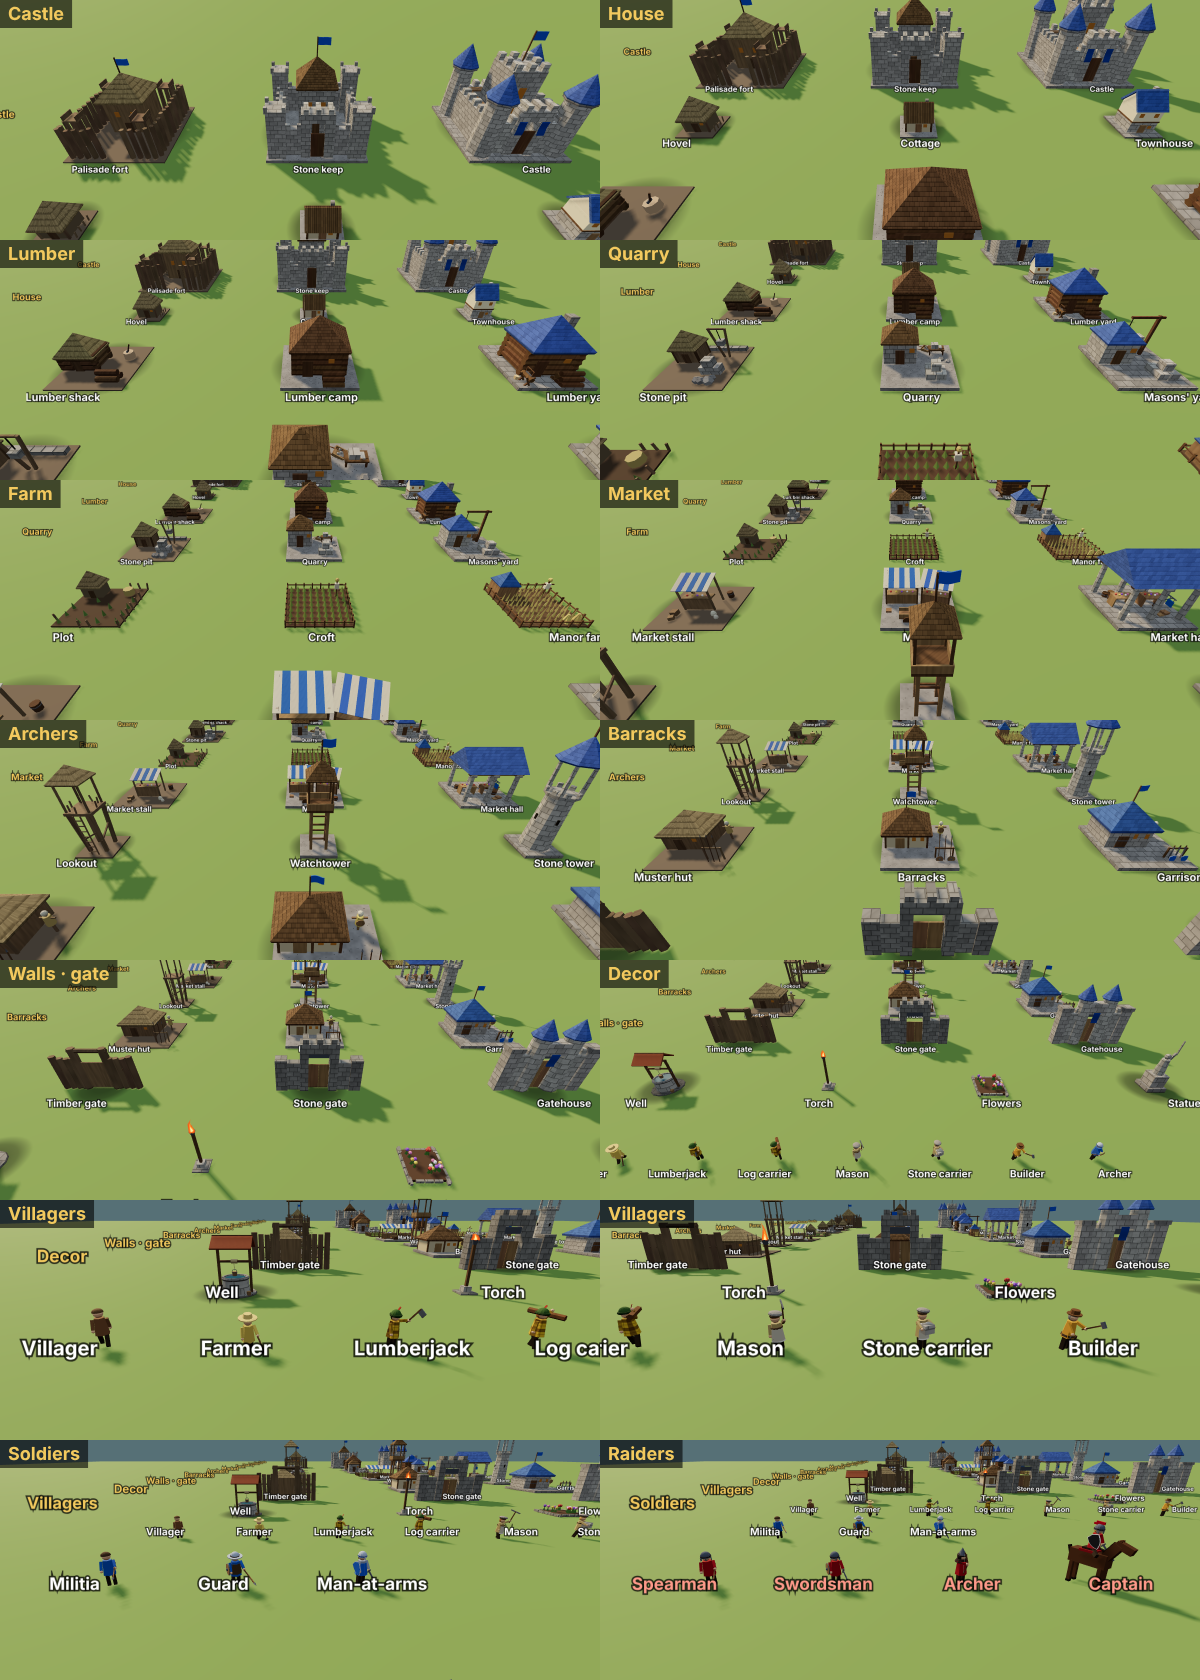
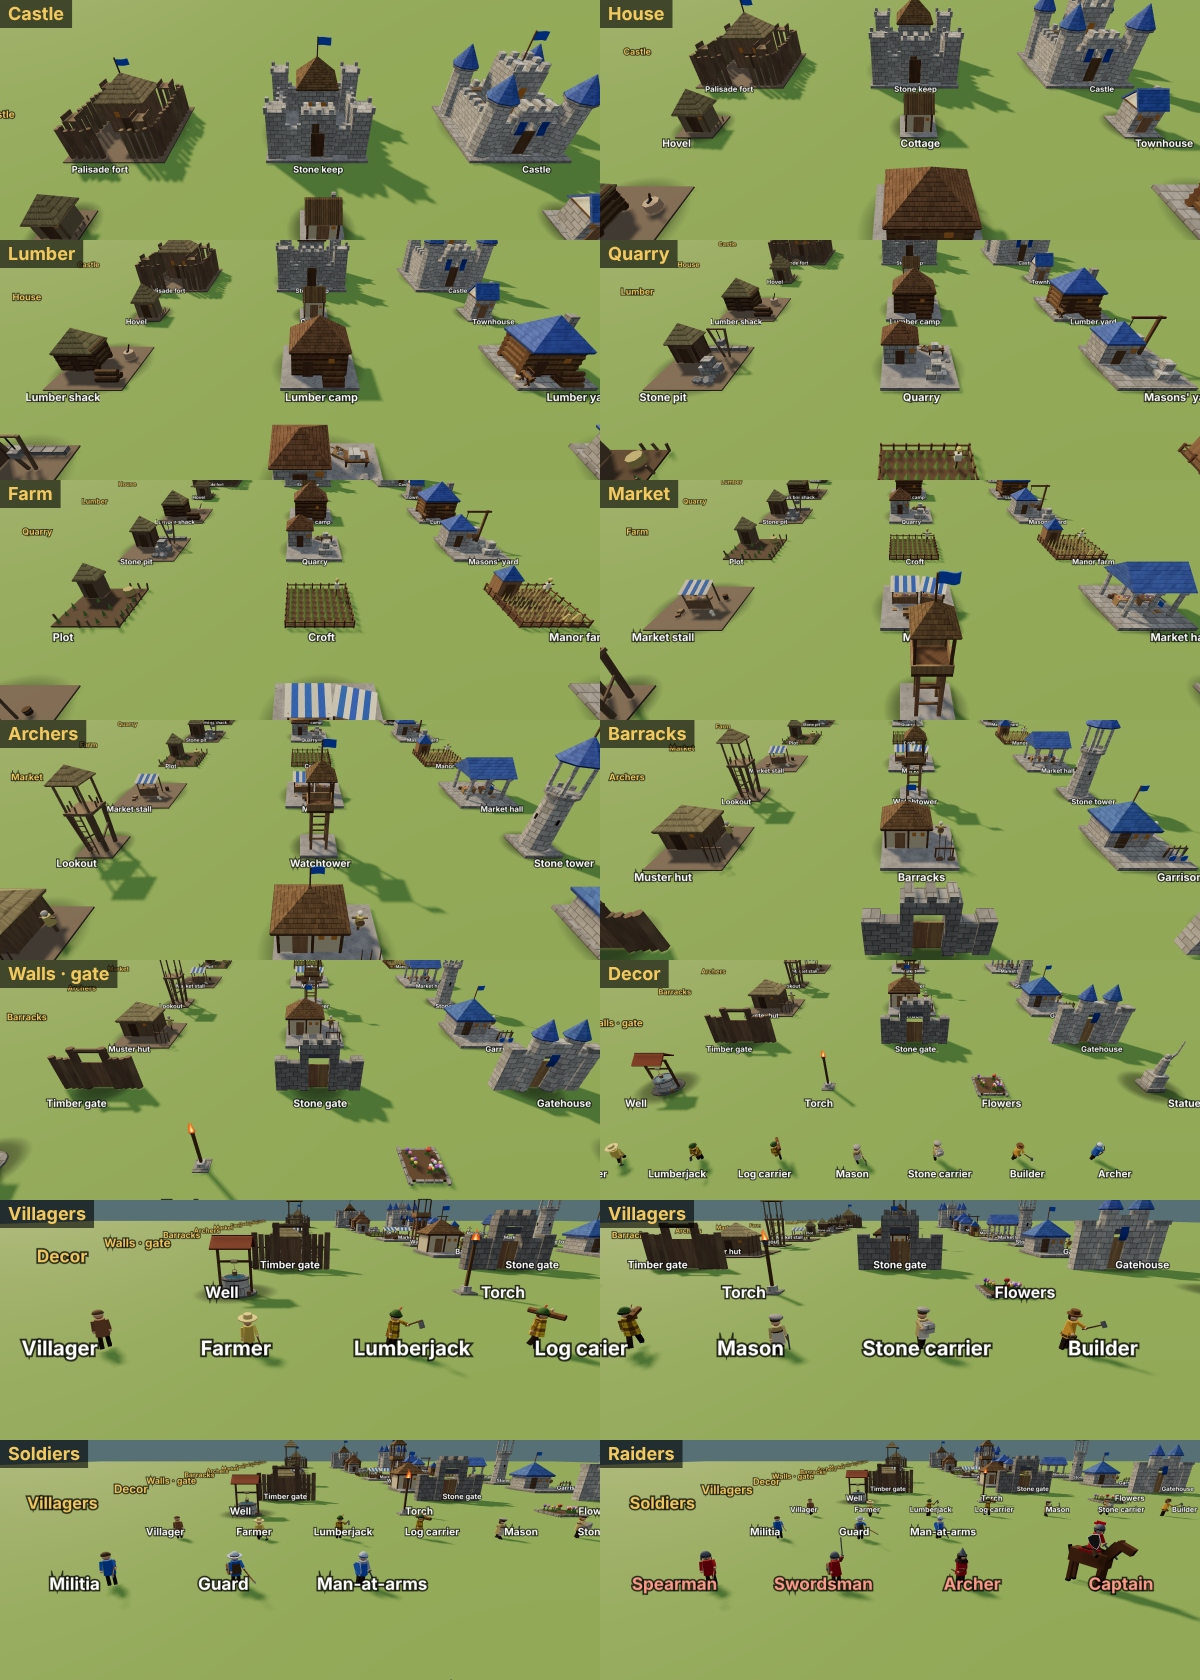
One door size (0.55 x 1.0) for tier-1, house and barracks doors, buildings raised to fit; townhouse one tall storey; bigger fort door; taller farm hut and barn; markets drawn at 80%; no brace on the hall sign
Claude-Session: https://claude.ai/code/session_01AE8sRRsVdpH9ETfQvtppox

diff --git a/index.html b/index.html
@@ -1162,37 +1162,37 @@ function syncTerrain() {
 }
 
 // ---------- building models (3 tiers each) ----------
+// every tier-1 door (and every house and barracks door) is the size of the lumber camp's: 0.55 x 1.0 m
+const DOOR_W = .55, DOOR_H = 1.0;
 function makeHouse(tier, plinth) {
   const g = new THREE.Group();
   if (plinth) g.add(box(2.0, 1.6, 2.0, tier === 2 ? M.plainStone : M.stone, 0, -.7, 0));
   if (tier === 1) {            // hovel: crooked wattle-and-daub, sagging thatch
-    const w = box(1.25, .85, 1.05, M.mud, 0, .5, 0); w.rotation.z = .035; g.add(w);
-    for (const sx of [-1, 1]) g.add(box(.09, .9, .09, M.rough, sx * .62, .5, .52));
-    g.add(box(1.3, .08, .08, M.rough, 0, .92, .53));
-    g.add(pyramid(1.12, 1.15, .95, M.thatchOld, 1.47));
-    g.add(box(.34, .58, .05, M.timber, 0, .38, .54));
-    g.add(box(.18, .14, .04, M.glow, .38, .62, .54));
+    const w = box(1.25, 1.25, 1.05, M.mud, 0, .7, 0); w.rotation.z = .035; g.add(w);
+    for (const sx of [-1, 1]) g.add(box(.09, 1.3, .09, M.rough, sx * .62, .7, .52));
+    g.add(box(1.3, .08, .08, M.rough, 0, 1.32, .53));
+    g.add(pyramid(1.12, 1.15, .95, M.thatchOld, 1.9));
+    g.add(box(DOOR_W, DOOR_H, .05, M.timber, 0, .08 + DOOR_H / 2, .54));
+    g.add(box(.16, .14, .04, M.glow, .45, 1.0, .54));
     for (let n = 0; n < 4; n++) { const p = box(.05, .35 + hash(n, 3) * .15, .05, M.rough, .9, .2, -.45 + n * .3); p.rotation.x = (hash(n, 9) - .5) * .4; g.add(p); }
   } else if (tier === 2) {     // cottage: plain daub walls, corner posts, a straw gable roof, one door and one window
-    g.add(box(1.4, .78, 1.1, M.daub, 0, .45, 0));
-    for (const sx of [-1, 1]) for (const sz of [-1, 1]) g.add(box(.1, .8, .1, M.timber, sx * .68, .45, sz * .53));
-    g.add(box(.34, .56, .05, M.wood, 0, .36, .56));
-    g.add(box(.2, .18, .04, M.glow, .35, .52, .56));
-    g.add(prism(1.4, 1.1, .7, M.daub, 0, .84, 0));
+    g.add(box(1.4, 1.3, 1.1, M.daub, 0, .75, 0));
+    for (const sx of [-1, 1]) for (const sz of [-1, 1]) g.add(box(.1, 1.32, .1, M.timber, sx * .68, .75, sz * .53));
+    g.add(box(DOOR_W, DOOR_H, .05, M.wood, 0, .1 + DOOR_H / 2, .56));
+    g.add(box(.18, .18, .04, M.glow, .45, .95, .56));
+    g.add(prism(1.4, 1.1, .7, M.daub, 0, 1.4, 0));
     const sl = Math.atan2(.7, .55), len = Math.hypot(.7, .55) + .2;
-    for (const sz of [-1, 1]) { const r = box(1.6, .1, len, M.logGable, 0, .84 + .35, sz * .35); r.rotation.x = sz * sl; g.add(r); }
-    g.add(box(.18, .45, .18, M.stone, .45, 1.45, -.25));
-  } else {                     // town house: stone ground floor, plaster upper floor, blue gable roof
-    g.add(box(1.4, .75, 1.2, M.stone2, 0, .375, 0));
-    g.add(box(.34, .58, .05, M.wood, 0, .3, .61));
-    g.add(box(.18, .16, .04, M.glow, .35, .45, .61));
-    g.add(box(1.46, .07, 1.26, M.timber, 0, .78, 0));
-    g.add(box(1.4, .7, 1.2, M.plaster, 0, 1.16, 0));
-    for (const sx of [-1, 1]) g.add(box(.2, .22, .04, M.glow, sx * .38, 1.2, .61));
-    g.add(prism(1.4, 1.2, .8, M.plaster, 0, 1.51, 0));
+    for (const sz of [-1, 1]) { const r = box(1.6, .1, len, M.logGable, 0, 1.4 + .35, sz * .35); r.rotation.x = sz * sl; g.add(r); }
+    g.add(box(.18, .45, .18, M.stone, .45, 2.01, -.25));
+  } else {                     // town house: one tall stone storey, a timber band and a plaster gable, blue gable roof
+    g.add(box(1.4, 1.45, 1.2, M.stone2, 0, .8, 0));
+    g.add(box(DOOR_W, DOOR_H, .05, M.wood, 0, .1 + DOOR_H / 2, .61));
+    for (const sx of [-1, 1]) g.add(box(.18, .26, .04, M.glow, sx * .47, 1.1, .61));
+    g.add(box(1.46, .07, 1.26, M.timber, 0, 1.53, 0));
+    g.add(prism(1.4, 1.2, .8, M.plaster, 0, 1.56, 0));
     const sl = Math.atan2(.8, .6), len = Math.hypot(.8, .6) + .2;
-    for (const sz of [-1, 1]) { const r = box(1.6, .1, len, M.roofBlue, 0, 1.51 + .4 + .03, sz * .32); r.rotation.x = sz * sl; g.add(r); }
-    g.add(box(.2, .6, .2, M.stone2, .45, 2.1, -.3));
+    for (const sz of [-1, 1]) { const r = box(1.6, .1, len, M.roofBlue, 0, 1.56 + .4 + .03, sz * .32); r.rotation.x = sz * sl; g.add(r); }
+    g.add(box(.2, .6, .2, M.stone2, .45, 2.15, -.3));
   }
   return g;
 }
@@ -1252,7 +1252,7 @@ function makeCastle(tier, plinth) {
     }
     g.add(box(2.4, 2.4, 2.0, M.wood, 0, 1.5, -.6));
     g.add(pyramid(2.1, 1.45, .86, M.thatchOld, 3.42, 0, -.6));   // eaves stick out past the hall walls
-    g.add(box(.46, .76, .01, M.dark, 0, .7, .405)); g.add(leaf(.5, .8, .06, M.timber, -.25, .7, .42, 1, -1.4));   // hall door swings out
+    g.add(box(.68, 1.12, .01, M.dark, 0, .86, .405)); g.add(leaf(.72, 1.16, .06, M.timber, -.36, .88, .42, 1, -1.4));   // hall door swings out
     for (const sx of [-1, 1]) g.add(box(.26, .36, .06, M.glow, sx * .5, 1.72, .42));   // two plain lit windows either side above the door, like the stone keep's
     for (const [px, pz] of [[1.9, 1.9], [-1.9, 1.9], [1.9, -1.9], [-1.9, -1.9]]) {   // a small lookout platform in each corner of the stockade
       g.add(box(.8, .1, .8, M.rough, px, 2.5, pz));
@@ -1318,17 +1318,17 @@ function makeLodge(tier, plinth) {
   const axeStump = (x, z) => { g.add(cyl(.28, .3, .45, 8, M.logEnd, x, .25, z)); const h = box(.05, .6, .05, M.timber, x + .08, .7, z); h.rotation.z = -.4; g.add(h); g.add(box(.05, .16, .22, M.iron, x - .02, .5, z)); };
   if (tier === 1) {            // woodcutter's hut: short log walls, thatched roof, chopping stump
     const X = -.9;              // the door (x -1) lines up with the left column's path tile
-    for (let n = 0; n < 3; n++) {
+    for (let n = 0; n < 4; n++) {
       const y = .3 + n * .3;
-      if (n < 2) for (const [x0, x1] of [[X - 1, -1.27], [-.73, X + 1]]) { const l1 = cyl(.15, .15, x1 - x0, 6, M.log, (x0 + x1) / 2, y, .45); l1.rotation.z = Math.PI / 2; g.add(l1); }
+      if (n < 3) for (const [x0, x1] of [[X - 1, -1.27], [-.73, X + 1]]) { const l1 = cyl(.15, .15, x1 - x0, 6, M.log, (x0 + x1) / 2, y, .45); l1.rotation.z = Math.PI / 2; g.add(l1); }
       else { const l1 = cyl(.15, .15, 2.0, 6, M.log, X, y, .45); l1.rotation.z = Math.PI / 2; g.add(l1); }
       const l2 = cyl(.15, .15, 2.0, 6, M.log, X, y, -.75); l2.rotation.z = Math.PI / 2; g.add(l2);
       const l3 = cyl(.15, .15, 1.4, 6, M.log, X + .9, y + .15, -.15); l3.rotation.x = Math.PI / 2; g.add(l3);
       const l4 = cyl(.15, .15, 1.4, 6, M.log, X - .9, y + .15, -.15); l4.rotation.x = Math.PI / 2; g.add(l4);
     }
-    g.add(box(1.7, .9, 1.1, M.rough, X, .6, -.15));
-    g.add(pyramid(1.5, 1.1, .78, M.thatchOld, 1.6, X, -.15));
-    g.add(box(.46, .66, .06, M.timber, -1, .42, .46));
+    g.add(box(1.7, 1.2, 1.1, M.rough, X, .75, -.15));
+    g.add(pyramid(1.5, 1.1, .78, M.thatchOld, 1.9, X, -.15));
+    g.add(box(DOOR_W, DOOR_H, .06, M.timber, -1, .08 + DOOR_H / 2, .46));
     pile(1.05, 1.25, 2);
     axeStump(1.1, -.85);       // chopping block round the back, beside the hut
   } else {                     // log cabin, then timber yard
@@ -1360,9 +1360,10 @@ function makeLodge(tier, plinth) {
 }
 // market: tier 1 one stall under a striped awning, tier 2 two stalls and a cart, tier 3 an open hall on stone pillars
 // with a blue roof; goods everywhere (crates, sacks, barrels, produce, cloth)
+const MARKET_K = .8;
 function makeMarket(tier, plinth) {
-  const g = new THREE.Group();
-  if (plinth) g.add(box(4.0, 1.8, 4.0, tier === 2 ? M.plainStone : M.stone, 0, -.7, 0));
+  const root = new THREE.Group(), g = new THREE.Group(); g.scale.setScalar(MARKET_K); root.add(g);   // drawn smaller than its tile, like other 2x2s
+  if (plinth) root.add(box(4.0, 1.8, 4.0, tier === 2 ? M.plainStone : M.stone, 0, -.7, 0));
   const crate = (x, z, s = .32, r = 0) => { const c = box(s, s, s, M.wood, x, s / 2, z); c.rotation.y = r; g.add(c); };
   const sack = (x, z, r = .15) => { const o = new THREE.Mesh(new THREE.SphereGeometry(r, 7, 5), M.canvas); o.scale.y = 1.25; o.position.set(x, r * 1.1, z); o.castShadow = true; g.add(o); };
   const barrel = (x, z) => { g.add(cyl(.17, .15, .44, 9, M.log, x, .22, z)); g.add(cyl(.175, .175, .04, 9, M.iron, x, .32, z)); };
@@ -1402,11 +1403,10 @@ function makeMarket(tier, plinth) {
     for (const [x, z] of [[-1.12, -.82], [-.74, -.95], [-.95, -.55], [.78, -.88], [1.15, -.78], [1.12, .2]]) barrel(x, z);
     crate(1.15, .8, .32, .3); crate(.8, .95, .26, .1); sack(-1.15, .82); sack(-.85, .95, .12); crate(-.3, -.95, .28, .5);
     // a sign hung from an iron bracket on the middle front pillar, square to the front
-    g.add(box(.04, .04, .56, M.iron, 0, 1.86, 1.66)); const br = box(.03, .03, .42, M.iron, 0, 1.7, 1.6); br.rotation.x = -.75; g.add(br);
-    for (const z of [1.62, 1.86]) g.add(box(.015, .14, .015, M.iron, 0, 1.78, z));
+    g.add(box(.04, .04, .56, M.iron, 0, 1.86, 1.66));     for (const z of [1.62, 1.86]) g.add(box(.015, .14, .015, M.iron, 0, 1.78, z));
     g.add(box(.04, .3, .34, M.awning, 0, 1.56, 1.74));
   }
-  return g;
+  return root;
 }
 // barracks: a hall on the left (door at x -1) and a drill yard on the right with a weapon rack and a practice dummy
 function makeBarracks(tier, plinth) {
@@ -1432,26 +1432,26 @@ function makeBarracks(tier, plinth) {
     if (shield) { const sh = cyl(.17, .17, .035, 12, M.wood, 1.3, .8, -.52); sh.rotation.x = Math.PI / 2; g.add(sh); }
   };
   if (tier === 1) {            // muster hut: plank hall with a thatched roof, a spear rack, a straw dummy
-    g.add(box(2.3, 1.0, 1.9, M.wood, X, .55, -.65));
-    for (const sx of [-1, 1]) for (const sz of [-1, 1]) g.add(box(.1, 1.05, .1, M.rough, X + sx * 1.13, .53, -.65 + sz * .93));
-    g.add(pyramid(1.9, 1.0, .86, M.thatchOld, 1.55, X, -.65));
-    g.add(box(.46, .7, .05, M.timber, -1, .4, F + .02)); g.add(box(.22, .18, .04, M.glow, -.1, .72, F + .02));
+    g.add(box(2.3, 1.3, 1.9, M.wood, X, .7, -.65));
+    for (const sx of [-1, 1]) for (const sz of [-1, 1]) g.add(box(.1, 1.35, .1, M.rough, X + sx * 1.13, .68, -.65 + sz * .93));
+    g.add(pyramid(1.9, 1.0, .86, M.thatchOld, 1.85, X, -.65));
+    g.add(box(DOOR_W, DOOR_H, .05, M.timber, -1, .08 + DOOR_H / 2, F + .02)); g.add(box(.22, .18, .04, M.glow, -.1, 1.0, F + .02));
     rack('spear'); dummy(false);
   } else if (tier === 2) {     // barracks: daub hall in a timber frame, log roof, spears and round shields, a blue banner
-    g.add(box(2.3, 1.1, 1.9, M.daub, X, .6, -.65));
-    for (const x of [-1.78, -.55, .48]) g.add(box(.1, 1.12, .1, M.timber, x, .6, F + .01));
-    for (const sx of [-1, 1]) g.add(box(.1, 1.12, .1, M.timber, X + sx * 1.13, .6, -1.6));
-    g.add(box(2.34, .08, .08, M.timber, X, 1.13, F + .01));
-    g.add(pyramid(1.95, 1.05, .86, M.thatch, 1.68, X, -.65));
-    g.add(box(.5, .8, .05, M.wood, -1, .45, F + .03)); for (const x of [-.25, .2]) g.add(box(.2, .2, .04, M.glow, x, .78, F + .03));
-    g.add(box(.05, 1.0, .05, M.timber, X, 2.6, -.65)); g.add(flagBox(.45, .3, .03, M.flag, X + .25, 2.95, -.65));   // flag on the roof peak
+    g.add(box(2.3, 1.4, 1.9, M.daub, X, .85, -.65));
+    for (const x of [-1.78, -.55, .48]) g.add(box(.1, 1.42, .1, M.timber, x, .85, F + .01));
+    for (const sx of [-1, 1]) g.add(box(.1, 1.42, .1, M.timber, X + sx * 1.13, .85, -1.6));
+    g.add(box(2.34, .08, .08, M.timber, X, 1.55, F + .01));
+    g.add(pyramid(1.95, 1.05, .86, M.thatch, 2.08, X, -.65));
+    g.add(box(DOOR_W, DOOR_H, .05, M.wood, -1, .2 + DOOR_H / 2, F + .03)); for (const x of [-.25, .2]) g.add(box(.2, .2, .04, M.glow, x, 1.1, F + .03));
+    g.add(box(.05, 1.0, .05, M.timber, X, 3.0, -.65)); g.add(flagBox(.45, .3, .03, M.flag, X + .25, 3.35, -.65));   // flag on the roof peak
     rack('spear', 'round'); dummy(true);
   } else {                     // garrison: stone hall, blue tiled roof, swords and blue shields, a hanging banner
     g.add(box(2.3, 1.3, 1.9, M.stone2, X, .7, -.65));
     g.add(box(2.42, .12, 2.02, M.stone2, X, 1.38, -.65));
     g.add(pyramid(1.95, 1.15, .86, M.roofBlue, 2.0, X, -.65));
-    g.add(box(.55, .9, .06, M.timber, -1, .5, F + .02));
-    for (const y of [.25, .7]) g.add(box(.56, .04, .07, M.iron, -1, y, F + .04));
+    g.add(box(DOOR_W, DOOR_H, .06, M.timber, -1, .2 + DOOR_H / 2, F + .02));
+    for (const y of [.45, .95]) g.add(box(.56, .04, .07, M.iron, -1, y, F + .04));
     for (const x of [-.4, .2]) g.add(box(.18, .26, .04, M.glow, x, .95, F + .02));
     g.add(box(.05, 1.0, .05, M.timber, X, 2.95, -.65)); g.add(flagBox(.45, .3, .03, M.flag, X + .25, 3.3, -.65));
     rack('sword', 'kite'); dummy(true);
@@ -1463,10 +1463,10 @@ function makeQuarry(tier, plinth) {
   if (plinth) g.add(box(4.0, 1.8, 4.0, tier === 2 ? M.plainStone : M.stone, 0, -.7, 0));
   const blocks = list => list.forEach(([x, y, z]) => g.add(box(.5, .45, .5, M.stone2, x, y, z)));
   if (tier === 1) {            // stone pit: masons' shed, cut blocks, timber hoist
-    g.add(box(1.3, .9, 1.1, M.rough, -1, .55, -.85));
-    for (const sx of [-1, 1]) for (const sz of [-1, 1]) g.add(box(.1, .95, .1, M.timber, -1 + sx * .62, .55, -.85 + sz * .52));
-    g.add(pyramid(1.1, .95, .9, M.thatchOld, 1.45, -1, -.85));
-    g.add(box(.36, .6, .05, M.timber, -1, .4, -.28));
+    g.add(box(1.3, 1.3, 1.1, M.rough, -1, .75, -.85));
+    for (const sx of [-1, 1]) for (const sz of [-1, 1]) g.add(box(.1, 1.35, .1, M.timber, -1 + sx * .62, .75, -.85 + sz * .52));
+    g.add(pyramid(1.1, .95, .9, M.thatchOld, 1.875, -1, -.85));
+    g.add(box(DOOR_W, DOOR_H, .05, M.timber, -1, .08 + DOOR_H / 2, -.28));
     blocks([[.55, .32, .55], [1.1, .32, .55], [.82, .76, .55]]);
     for (let n = 0; n < 5; n++) { const r = new THREE.Mesh(rockGeo, rockMat); r.scale.setScalar(.25 + hash(n, 2) * .15); r.position.set(.4 + hash(n, 5) * 1.1, .15, 1.1 + hash(n, 8) * .4); r.castShadow = true; g.add(r); }
     // A-frame hoist with a block on the rope
@@ -1531,7 +1531,7 @@ function makeFarm(tier) {
   }
   if (tier > 1) for (const [x, z, w, d] of [[0, -1.75, 3.5, .05], [0, 1.75, 3.5, .05], [-1.75, 0, .05, 3.5], [1.75, 0, .05, 3.5]]) g.add(box(w, .05, d, M.timber, x, .38, z));
   if (tier === 1) { // thatched field hut
-    g.add(box(1.1, .75, .8, M.mud, -1.0, .45, -1.2)); g.add(pyramid(.95, .85, .8, M.thatchOld, 1.25, -1.0, -1.2)); g.add(box(.3, .5, .05, M.timber, -1.0, .33, -.79));
+    g.add(box(1.1, 1.25, .8, M.mud, -1.0, .7, -1.2)); g.add(pyramid(.95, .85, .8, M.thatchOld, 1.75, -1.0, -1.2)); g.add(box(DOOR_W, DOOR_H, .05, M.timber, -1.0, .08 + DOOR_H / 2, -.79));
     g.add(cyl(.28, .3, .4, 8, M.hay, .9, .25, -1.2));
   }
   if (tier >= 2) { // scarecrow
@@ -1540,7 +1540,7 @@ function makeFarm(tier) {
     const hd = new THREE.Mesh(new THREE.SphereGeometry(.12, 6, 5), M.hay); hd.position.set(1.1, 1.25, -.9); g.add(hd);
   }
   if (tier === 3) { // barn + hay
-    g.add(box(1.1, .9, .9, M.wood, -1.15, .5, -1.15)); g.add(pyramid(.85, .7, .85, M.roofBlue, 1.3, -1.15, -1.15));
+    g.add(box(1.1, 1.3, .9, M.wood, -1.15, .7, -1.15)); g.add(pyramid(.85, .7, .85, M.roofBlue, 1.7, -1.15, -1.15)); g.add(box(DOOR_W, DOOR_H, .05, M.timber, -1.15, .08 + DOOR_H / 2, -.69));
     for (const [sx, sz] of [[1.35, 1.35], [.75, 1.42]]) {     // stooks: sheaves leaned together
       for (let n = 0; n < 4; n++) { const a = n / 4 * Math.PI * 2, sh = cyl(.06, .09, .55, 6, M.hay, sx + Math.cos(a) * .08, .32, sz + Math.sin(a) * .08); sh.rotation.z = Math.cos(a) * .25; sh.rotation.x = -Math.sin(a) * .25; g.add(sh); }
     }

diff --git a/CLAUDE.md b/CLAUDE.md
@@ -50,7 +50,8 @@ The whole game is currently one self-contained file: `index.html` (~165 KB, thre
 - Well: stone apron, rubble ring with a coping, windlass (axle, wound rope `ropeM`, crank) on two posts, bucket hanging on its line, gable tile roof, spare bucket. Quarry T2 back yard: mason's bench with a half-dressed block, rubble heap, wheelbarrow. Castle T3 gatehouse has merlons. Chimney smoke follows the building's facing.
 - Castle T2/T3 are drawn narrower in x/z (`CASTLE_K` .9/.82, posts scaled too) so corner towers stay inside the 3×3 plinth.
 - Castle T2 is all warm stone (`M.stone2`, like T3): plain curtain walls, square corner towers open on top, keep with a straw roof. Castle T3 holds 5 archers (2 on the keep, 1 on each wall-walk except the gate side).
-- Houses stay plain and ordinary so they never outshine the castle: T2 daub cottage with corner posts and a straw gable roof; T3 stone ground floor + plaster upper floor with a blue gable roof. One door, few windows, small chimney.
+- Houses stay plain and ordinary so they never outshine the castle: T1 hovel, T2 daub cottage with corner posts and a straw gable roof, T3 one tall stone storey with a timber band, plaster gable and blue gable roof (no upper floor). All three are ~1.3–1.45 m to the eaves so the standard door fits. One door, few windows, small chimney.
+- Doors: every tier-1 building's door, every house door and every barracks door is the lumber camp's size, `DOOR_W` .55 × `DOOR_H` 1.0 (bottom on the slab/plinth top); buildings were raised to fit (hovel, cottage, townhouse, lumber shack (4 log courses), stone pit shed, muster hut, barracks hall, farm T1 hut, farm T3 barn, which got a door). The palisade fort's hall door is .72 × 1.16.
 
 ## Maps
 - Two maps, picked on a dark title screen ("Medieval Town Defense", "Choose map"; `#mapPick` covers everything, visible from the first paint so the game never shows behind it) on entry and on Restart / Play again (`#mapPick`, `showMapPick`; each card shows a picture of the real map, `maps/meadow.jpg` / `maps/isle.jpg`, rendered by `node tools/render/maps.js [--three …]` (re-run after changing a map); the game waits paused underneath; last choice in `localStorage['mtd-map']`, highlighted). `?map=meadow|isle` (and `?debug` / `?gallery`) skip the picker. `MAP` is read by `genHeight`, `genTrees`, `genRocks`, `canStand`; `KX/KZ` (castle site) are set per map in `startGame` (Meadow 19,27 / cells 8–10,12–14; River isle 27,27 / cells 12–14,12–14).
@@ -86,7 +87,7 @@ The whole game is currently one self-contained file: `index.html` (~165 KB, thre
 | barracks | 2×2 | wood 25 gold 20 | wood 30 gold 35 stone 10 / stone 40 gold 60 | 3 soldiers (all tiers), hp 220/320/450; soldiers hp 70/100/140, dmg 7/10/14 every 0.9 s; hall on the left (door x −1), drill yard with weapon rack and practice dummy on the right | Muster hut / Barracks / Garrison |
 | wall | 1×1 | wood 5 gold 2 | stone 6 gold 3 / stone 10 gold 10 | drag-paint, auto-tiles, no plinth | Palisade / Stone wall / Battlement |
 | gate | 1×1 | wood 15 gold 10 | stone 15 gold 20 / stone 25 gold 35 | auto-tiles with walls, no plinth | Timber gate / Stone gate / Gatehouse |
-| market | 2×2 | wood 20 gold 15 | wood 25 gold 30 / stone 25 gold 50 | no workers; the card's trade grid (`#cardTrade`, `TRADES`, rebuilt only when tier/affordability change) swaps 10 of one resource, in rows of two (left: buy with gold, right: sell for gold): 10 gold → wood 4 / stone 2 / food 6, and wood 10 → gold 4, stone 10 → gold 6, food 10 → gold 2 at tier 1; every amount +2 per tier; any time of day; what you get pops up (`floatRes`) and flies to its chip (`coinFly(x, y, z, n, kind)`, `RES_CHIP`). Model `makeMarket`: T1 one small stall under a blue/canvas striped awning (`M.awning`), T2 two stalls + hand cart, T3 open hall on stone pillars with a blue gable roof, barrels and goods under the roof, a blue sign hung from an iron bracket on the middle front pillar; crates, sacks, barrels, produce | Market stall / Market / Market hall |
+| market | 2×2 | wood 20 gold 15 | wood 25 gold 30 / stone 25 gold 50 | no workers; the card's trade grid (`#cardTrade`, `TRADES`, rebuilt only when tier/affordability change) swaps 10 of one resource, in rows of two (left: buy with gold, right: sell for gold): 10 gold → wood 4 / stone 2 / food 6, and wood 10 → gold 4, stone 10 → gold 6, food 10 → gold 2 at tier 1; every amount +2 per tier; any time of day; what you get pops up (`floatRes`) and flies to its chip (`coinFly(x, y, z, n, kind)`, `RES_CHIP`). Model `makeMarket`: T1 one small stall under a blue/canvas striped awning (`M.awning`), T2 two stalls + hand cart, T3 open hall on stone pillars with a blue gable roof, barrels and goods under the roof, a blue sign hung by two chains from an iron bar on the middle front pillar; everything but the base drawn at `MARKET_K` .8; crates, sacks, barrels, produce | Market stall / Market / Market hall |
 | well | 1×1 | stone 5 | — | charm 0.25 | — |
 | torch | ⅓ tile | wood 2 | — | charm 0.1, walkable, night light | — |
 | flowers | 1×1 | gold 3 | — | charm 0.15, walkable | — |
